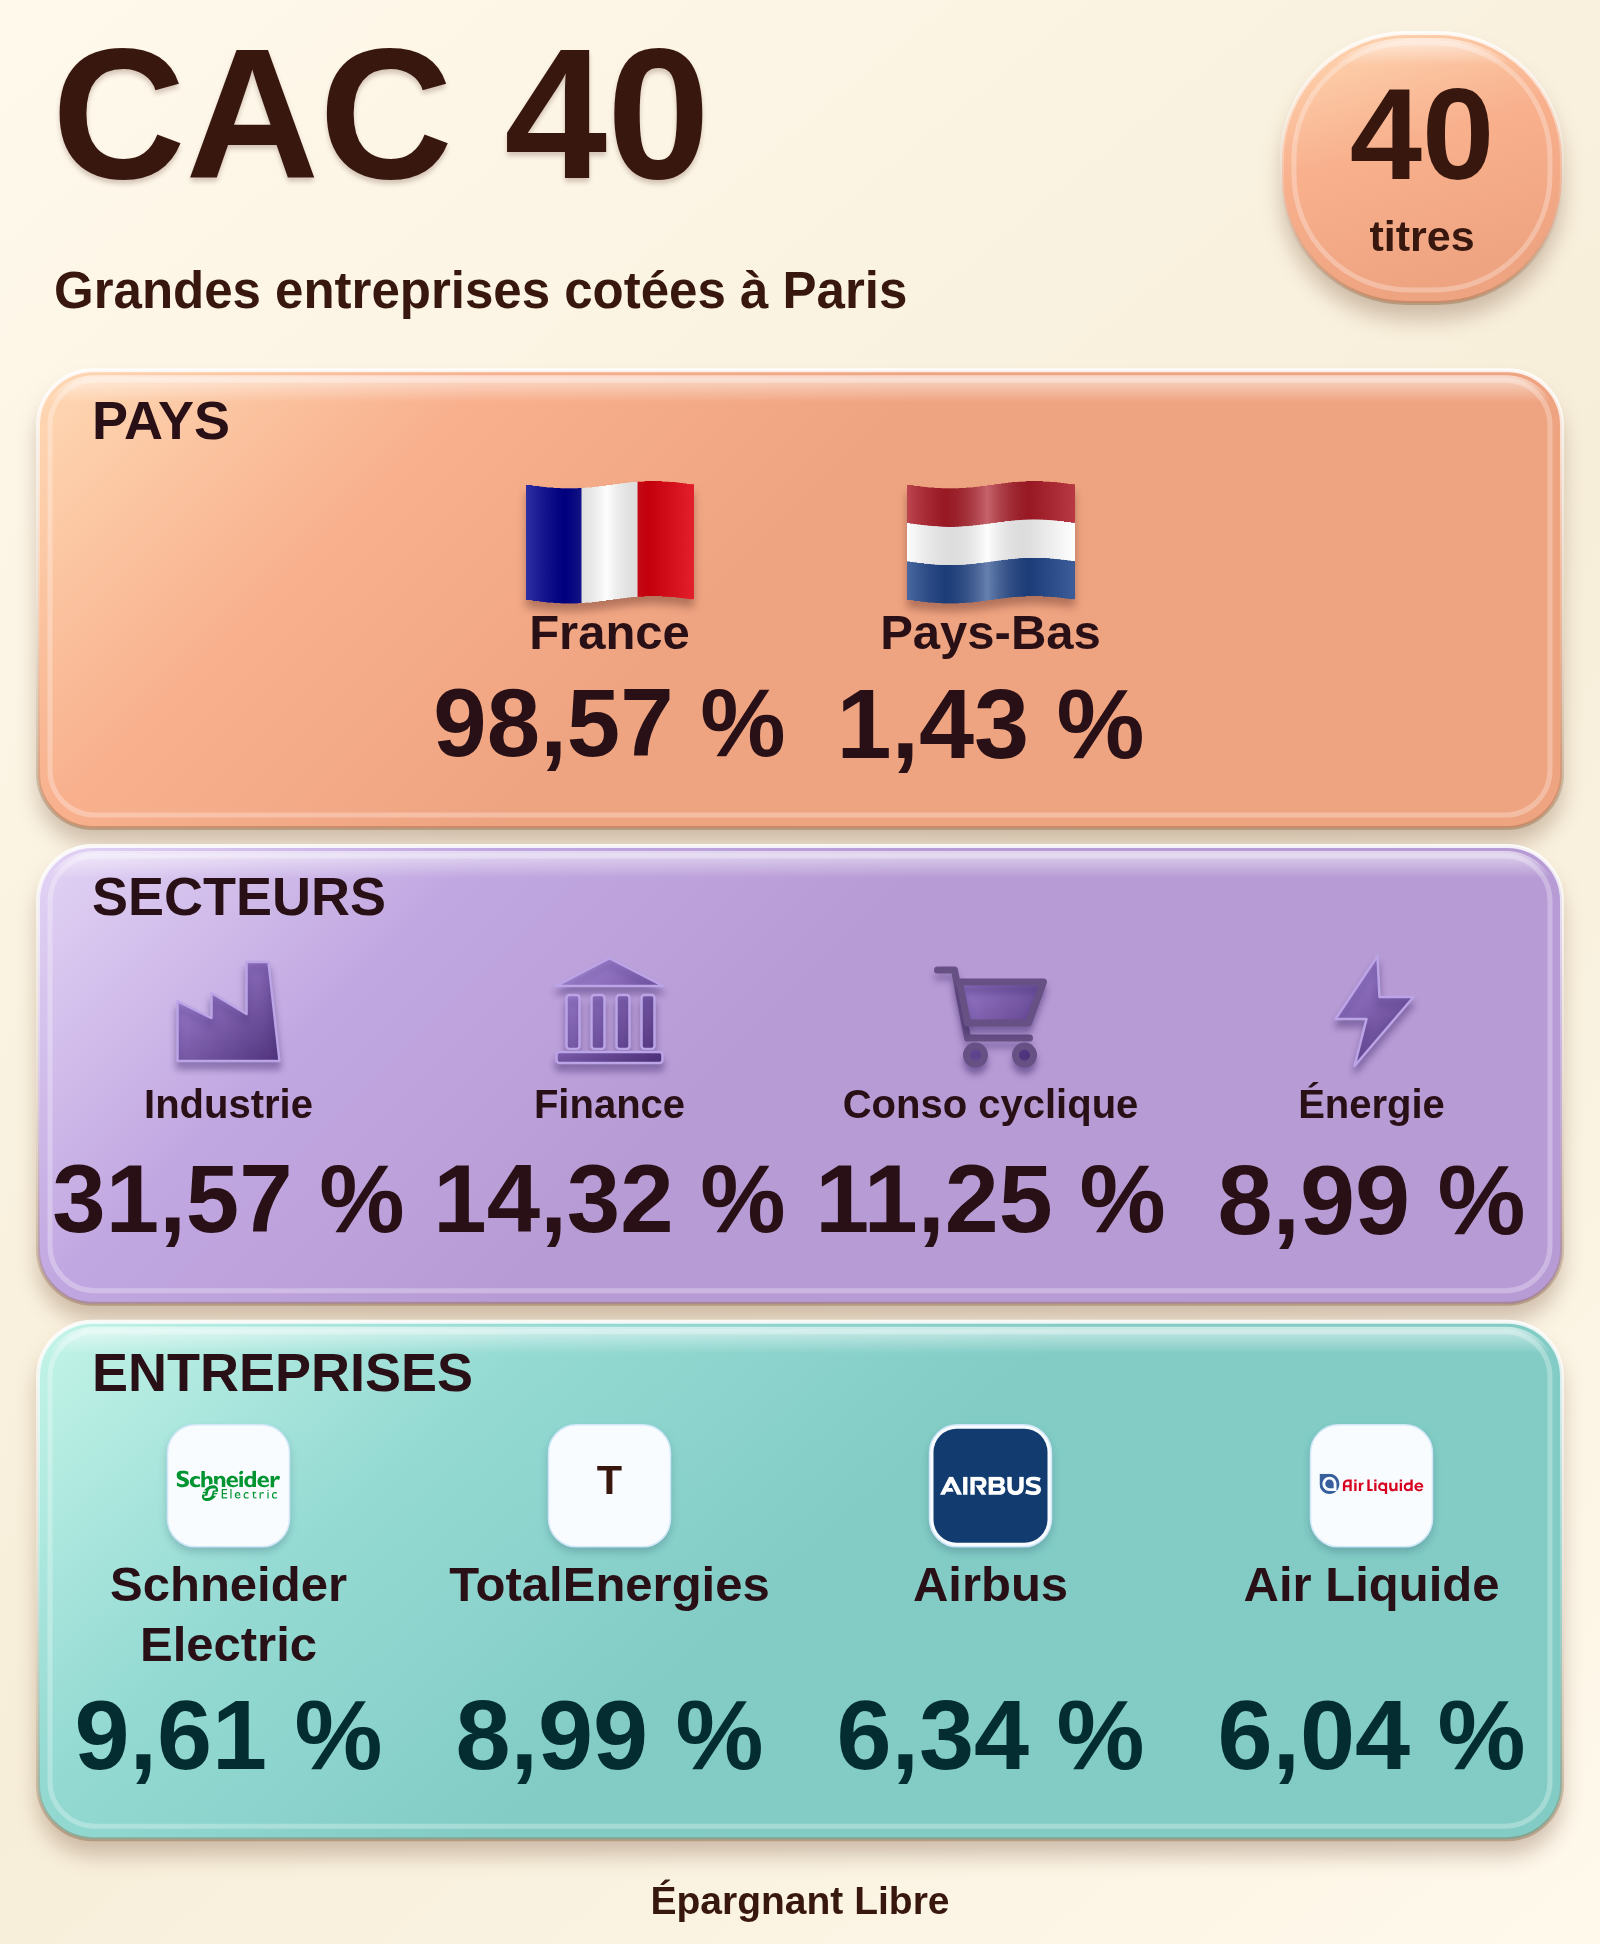
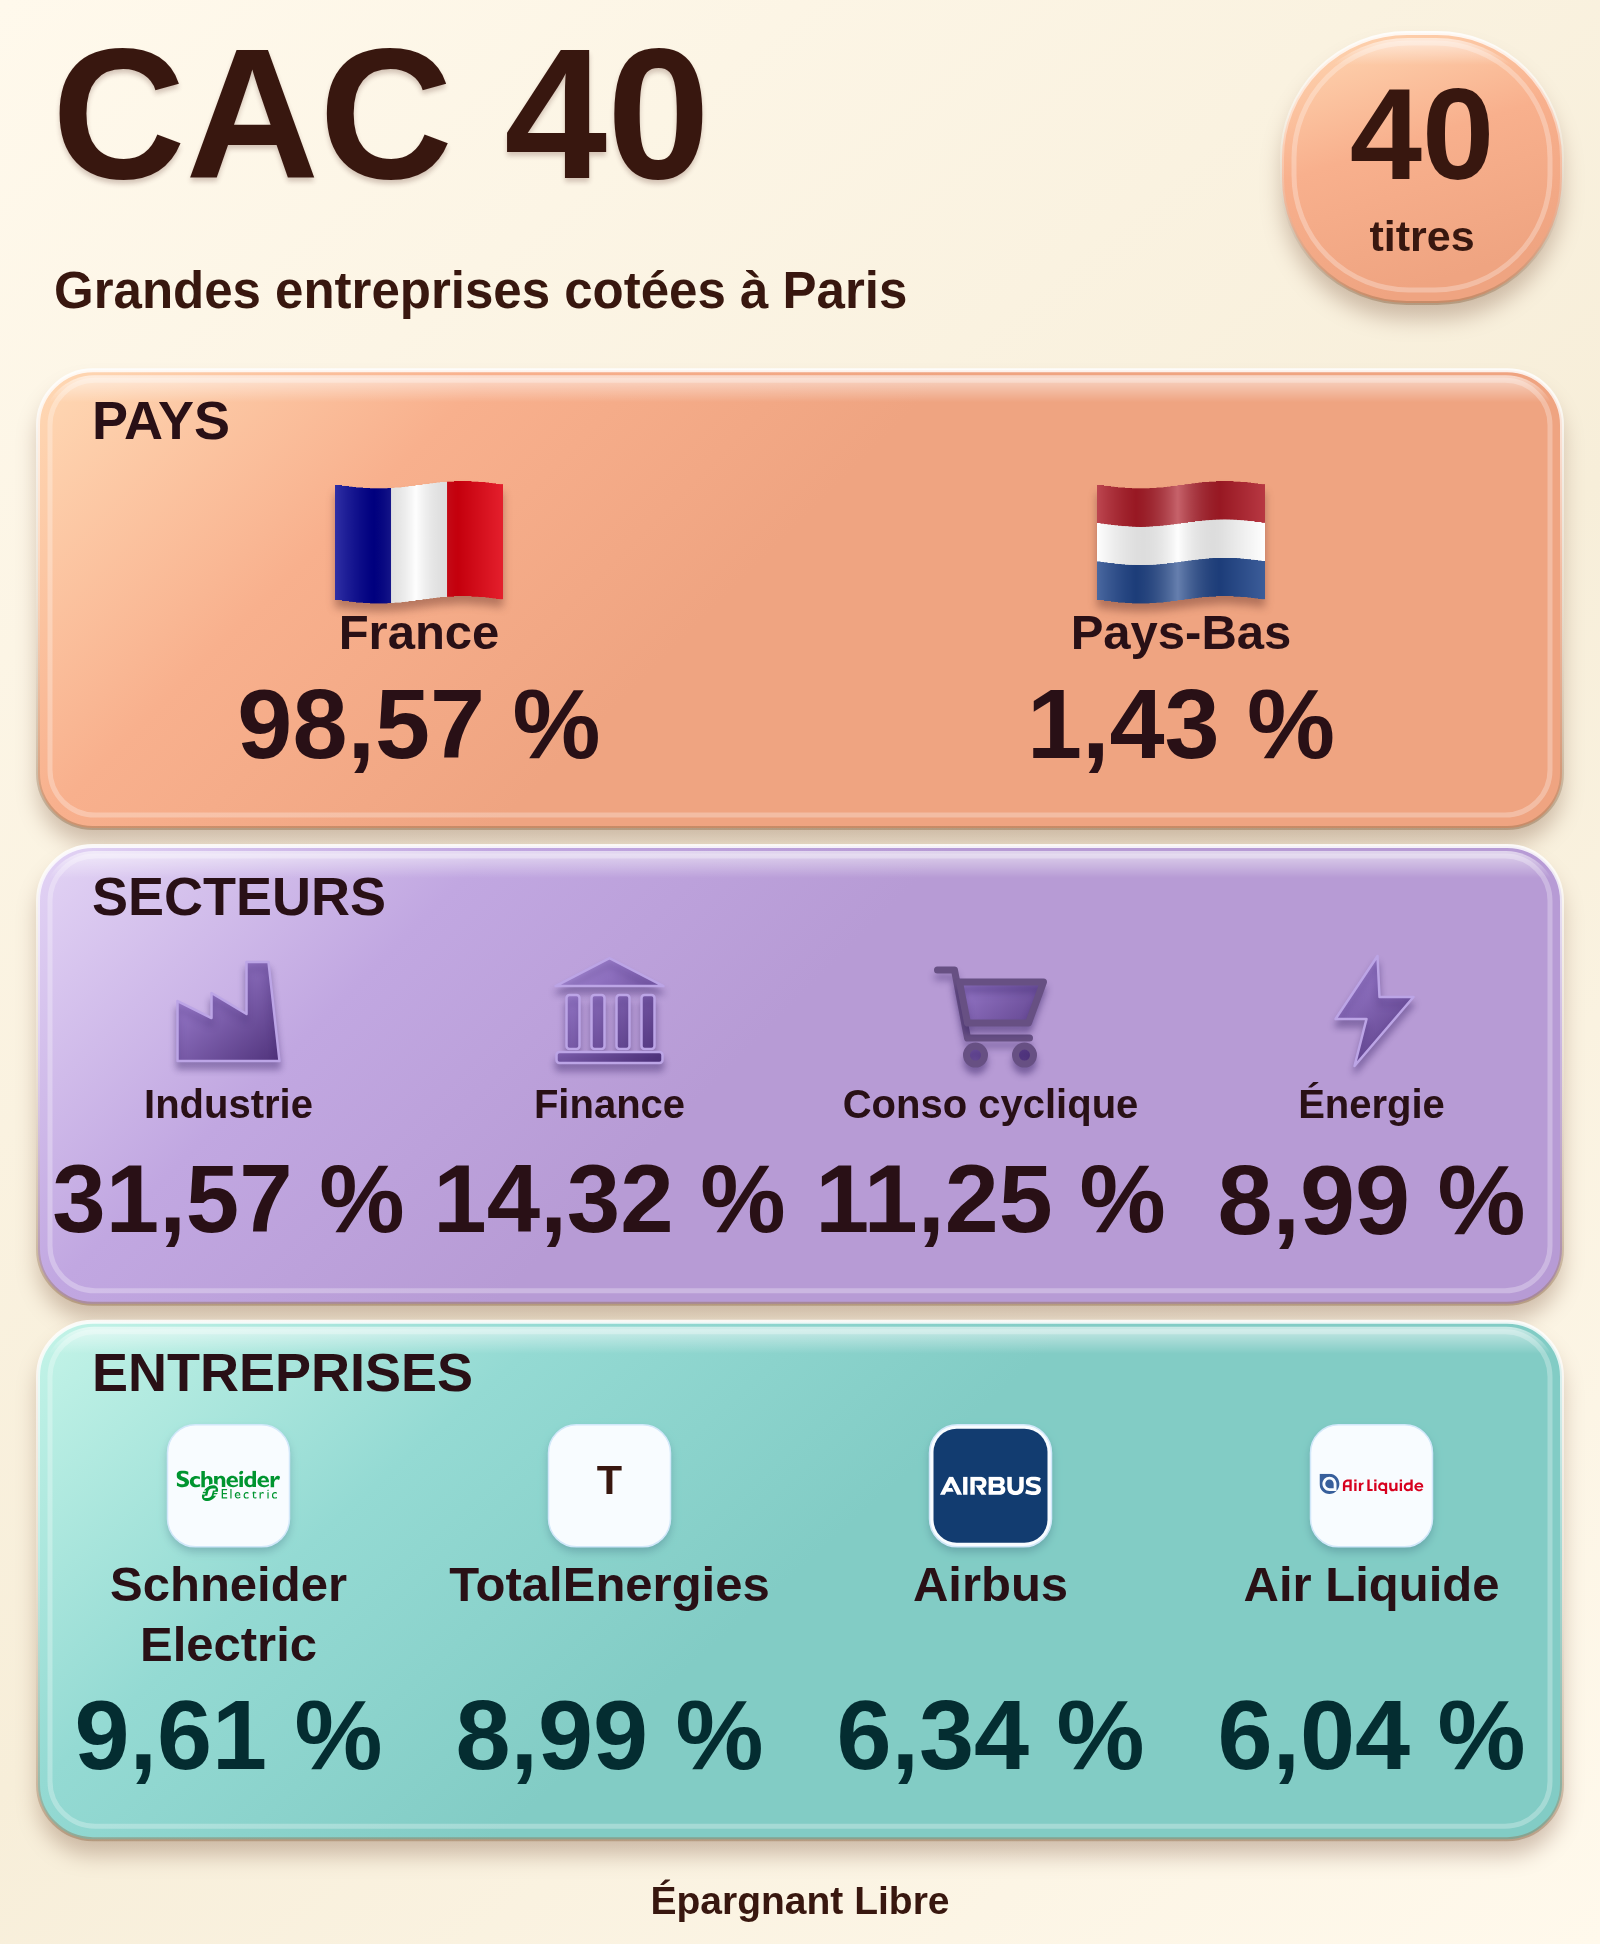
Refine sparse layouts and retain truthful labels for tiny positive weights

Changed region(s): [[0.1562, 0.2469, 0.5, 0.4012], [0.5312, 0.2469, 0.8438, 0.4012]]

diff --git a/src/pages/factsheet-tweets/canvasImage.js b/src/pages/factsheet-tweets/canvasImage.js
@@ -139,8 +139,8 @@ export async function renderFactsheetImage(sheet) {
     {label:'ENTREPRISES',style:'mint',kind:'company',rows:holdings.map(([name,value],i)=>({name:((sheet.compositionOnly||sheet.concentration?.available)?compositionCompanyLabel:imageCompanyLabel)(name),raw:name,value,image:logos[i]}))},
   ]
   const bands=definitions.map(band=>{
-    const width=USABLE/Math.max(4,band.rows.length)
-    const cells=band.rows.map(row=>({...row,nameBlock:block(ctx,row.name,width-32,band.kind==='sector'?40:49,700),valueBlock:fit(ctx,percent(row.value),width-28,99,76,false)}))
+    const width=USABLE/Math.max(1,band.rows.length)
+    const cells=band.rows.map(row=>({...row,nameBlock:block(ctx,row.name,width-32,band.kind==='sector'?40:49,700),valueBlock:fit(ctx,row.value>0&&row.value<.005?'< 0,01 %':percent(row.value),width-28,99,76,false)}))
     const nameH=Math.max(61,...cells.map(cell=>cell.nameBlock.height)),valueH=Math.max(118,...cells.map(cell=>cell.valueBlock.height))
     return {...band,cells,width,nameH,valueH,height:Math.max(422,100+126+15+nameH+8+valueH+26)}
   })
@@ -218,7 +218,7 @@ export async function renderCompositionImage(sheet, composition) {
   const legendTop=donutTop+diameter+60
   const rows=[]
   for(let i=0;i<entries.length;i+=2){
-    const cells=entries.slice(i,i+2).map(entry=>({...entry,label:block(ctx,entry.name,columnW-124,36,500),valueBlock:block(ctx,percent(entry.value),columnW-124,42,700)}))
+    const cells=entries.slice(i,i+2).map(entry=>({...entry,label:block(ctx,entry.name,columnW-124,36,500),valueBlock:block(ctx,entry.value===0&&entry.weight>0?'< 0,01 %':percent(entry.value),columnW-124,42,700)}))
     rows.push({cells,height:Math.max(...cells.map(cell=>cell.label.height+cell.valueBlock.height+18),92)+26})
   }
   const height=Math.ceil(legendTop+rows.reduce((sum,row)=>sum+row.height,0)+90)

diff --git a/reports/index-relief/README.md b/reports/index-relief/README.md
@@ -1,6 +1,6 @@
 # Coulisses des indices — relief pastel
 
-Refonte visuelle à partir de `master` de0c85fb, le 26 octobre 2026. La référence finale est **l’image jointe**, conformément à la précision de l’utilisateur : fond ivoire, titre brun, badge pêche et trois panneaux horizontaux pêche, lavande et turquoise. Les exports sont de vrais canevas alimentés par les fiches, sans texte ni chiffres incorporés à un fond.
+Refonte visuelle démarrée sur `master` de0c85fb, puis rebasée sur 943b3ede après fusion de #969, le 26 octobre 2026. La référence finale est **l’image jointe**, conformément à la précision de l’utilisateur : fond ivoire, titre brun, badge pêche et trois panneaux horizontaux pêche, lavande et turquoise. Les exports sont de vrais canevas alimentés par les fiches, sans texte ni chiffres incorporés à un fond.
 
 Le moteur partagé reprend les proportions, les matières en relief, les grands pourcentages sous les libellés, les drapeaux et pictogrammes, le panneau clair de performances et la signature centrée. Les marques officielles gardent leurs couleurs, proportions et transparence ; leurs supports seuls reçoivent une ombre. Les historiques longs ajoutent des rangées ; les noms longs ajoutent des lignes et de la hauteur. Un nombre cible conserve « sociétés visées » ; aucune cible ne remplace un comptage observé et aucune observation absente ne devient un zéro.
 
@@ -31,7 +31,7 @@ Le [CSV](logo-coverage.csv) distingue chaque entreprise et ses ISIN lorsqu’ils
 
 Le raccordement principal est une table d’alias explicitement revus **par indice**. Le Top 10 résout ses **ISIN** ; un nom ou ticker approximatif, un ISIN inconnu ou un mélange d’entreprises ne reçoit pas de logo. Les preuves de chaque alias sont conservées dans les apparitions du recensement. Une nouvelle identité non revue conserve ses initiales ; elle ne déclenche aucune recherche floue. Le bilan est daté : il ne promet pas une couverture future après changement de composition.
 
-Les 70 fichiers ont été décodés dans Chromium et inspectés sur une planche de contrôle. Les marques blanches (Amazon, Airbus, AMD, ICICI, Santander, GE) ont un insert bleu. Les rasters restent dans leurs dimensions natives. Les tentatives sur [40 sites officiels supplémentaires](logo-source-attempts.json) documentent les refus d’accès et les candidats trouvés ; des premiers essais ont également été faits sur Amazon, Micron, TSMC, Tencent, Airbus et Schneider. Le fichier Micron reçu était une page « Request Rejected », donc rejeté. Alphabet, Broadcom et Micron utilisent encore leurs initiales. Une source candidate n’équivaut jamais à un logo validé.
+Les 70 fichiers ont été décodés dans Chromium et inspectés sur une planche de contrôle. Les marques blanches (Amazon, Airbus, AMD, ICICI, Santander, GE, Hon Hai) ont un insert bleu. Les rasters restent dans leurs dimensions natives. Les tentatives sur [40 sites officiels supplémentaires](logo-source-attempts.json) documentent les refus d’accès et les candidats trouvés ; des premiers essais ont également été faits sur Amazon, Micron, TSMC, Tencent, Airbus et Schneider. Le fichier Micron reçu était une page « Request Rejected », donc rejeté. Alphabet, Broadcom et Micron utilisent encore leurs initiales. Une source candidate n’équivaut jamais à un logo validé.
 
 Un fichier absent, corrompu ou bloqué produit une pastille d’initiales ; un délai de cinq secondes borne l’attente. Le cache invalide est supprimé et l’export suivant réessaie. Aucun service de marques distant n’est contacté à l’exécution.
 
@@ -42,7 +42,7 @@ Pour compléter le registre : vérifier la source officielle, ajouter le fichier
 - Compilation de production et budgets des routes ; lint sans erreur (avertissements préexistants).
 - `verify:factsheet-tweets`, `test:index-concentration`, cohérence des devises entre outils.
 - `test-index-ribbon.mjs` : toutes les fiches, poids et comptages inchangés, noms complets, aucun débordement ni chevauchement, historiques 1/3/6/7/10 années, données absentes, noms longs, téléphone 390 px et ordinateur 1280 px, téléchargement réel.
-- `test-index-relief-logos.mjs`, intégré au précédent : toutes les variantes de dividendes et devises de chaque indice ; aucun chevauchement entre logos et texte ; négatifs rouges ; observation absente sans faux zéro ; décodage de tous les logos ; fichiers absents, corrompus, retardés et expirés ; reprise après échec.
+- `test-index-relief-logos.mjs`, intégré au précédent : toutes les variantes de dividendes et devises de chaque indice (175 rendus) ; aucun chevauchement entre logos et texte ; négatifs rouges ; observation absente sans faux zéro ; décodage de tous les logos ; fichiers absents, corrompus, retardés et expirés ; reprise après échec.
 - `playwright-index-concentration.mjs` : toutes les compositions qualifiées, géométrie et poids du donut, longs noms et petites parts ; neuf parcours avec égalité binaire aperçu/PNG ; changement rapide d’indice, indisponibilité, brouillons conservés et téléphone.
 
 Les diagnostics complets sont produits sous `test-artifacts/index-ribbon`, `test-artifacts/index-relief` et `test-artifacts/index-concentration`. Les exports représentatifs ont été inspectés visuellement et comparés à la pièce jointe. Les logos officiels remplacent les marques illustrées de la référence ; les données de chaque indice et devise restent celles de l’outil.
